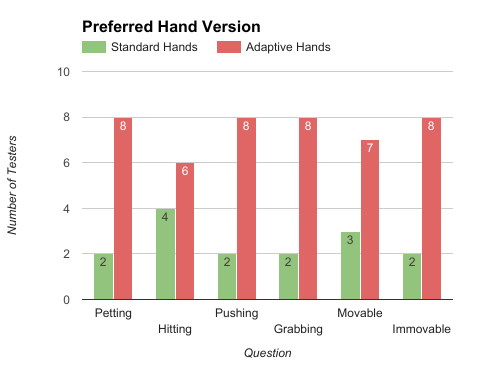
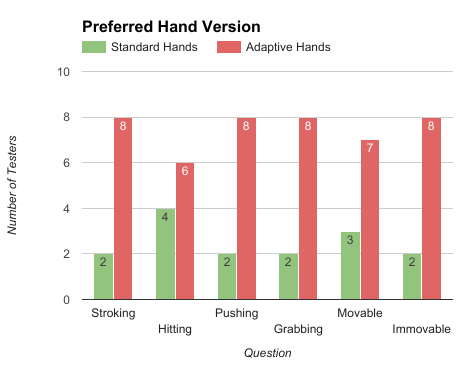
Results section (missing discussion)

diff --git a/results.tex b/results.tex
@@ -1,37 +1,51 @@
 \section{Results}
 \label{sec:results}
 
-Report results. Graphs and tables
+The information gathered in the user tests through the questionnaire and the interviews is presented in this section. The full questionnaire and a link to the raw data can be found in Annex \ref{REF HERE} The questionnaire answers are divided in two graphs: Figure \ref{fig:abGraph} summarizes the results of the A/B test-type questions, while Figure \ref{fig:descriptionGraph} contains the results of the questions where the testers where asked to select descriptions from a list to describe each hand version (they were also given the option to write their own description).
 
-\begin{itemize}
-\item Report ab preferences
-\item Report descriptions
-\item Report "other" answers in decriptions
-\item Report interviews
-\end{itemize}
+\todo[inline]{Reference to questionnaire + interview + raw data link Annex}
+
+Figure \ref{fig:interviewResults} presents the the result of performing a qualitative data analysis of the interview notes. The notes were coded and categorized following an inductive process, meaning that they were created based on the themes of the interview notes \parencite{Burnard2008}, and the number of occurrences of the labels in the notes was counted as a measure of the relevance of each label.
+
+We conducted the test procedure with 10 graduate-level university students (7 men and 3 women). It should be noted that all of the test subjects part of the games program at IT University of Copenhagen, so these results might not be fully representative of the general VR game player/user population.
 
 \begin{figure}[h]
 \centering
-\includegraphics[width=\textwidth]{abGraph.png}
-\caption{}
+\includegraphics[width=0.8\textwidth]{abGraph.png}
+\caption{Graph showing the number of testers that preferred each version of the hands in each of the aspects described by the A/B test-type questions: "With which version did you prefer petting/stroking the creatures?" (Stroking), "With which version did you prefer hitting things?" (Hitting), "With which version did you prefer pushing things?" (Pushing), "With which version did you prefer grabbing things?", (Grabbing), "Which version did you prefer in terms of how they interacted with objects that you could move?" (Movable), "Which version did you prefer in terms of how they interacted with objects that you could NOT move?" (Immovable).}
 \label{fig:abGraph}
 \end{figure}
 
-\begin{figure}[h]
+The labels in Figure \ref{fig:interviewResults} have the following meanings. In the \textit{Fingers} category, \textit{Stroking Good} means that the tester expressed that the finger adjustment improved the stroking experience: \textit{Hover Good} means that they liked the finger adjustment or hover around movable objects in a general sense. \textit{Impossible Grip} means that they expressed a dislike for the cases when the hands grabbed objects in a way that would be impossible in real life because it would not be possible to get a grip e.g. on a completely flat surface. \textit{Loose Grip} is similar to the previous one, and refers to disliking the cases when they grabbed an object and the hand pose didn't make contact with the object. \textit{Hidden Grab} refers to users expressing a dislike for the Standard hands disappearing when an object is grabbed. \textit{Flat Slap} refers to user's pointing out that because of the finger adjustment or hover around movable objects, hitting the objects with a flat hand wasn't possible. \textit{Unnoticed} refers to the cases when the users didn't notice the finger adjustment in the Adaptive hand. \textit{Inconsistent} means that the tester mentioned the fact that the fingers didn't adjust around immovable objects and were inconsistent in that sense.
+
+
+In the \textit{Rumble} category, the label \textit{Unpleasant} means that testers expressed that the haptic feedback or rumble given by the controllers was unpleasant to them. \textit{Satisfying} means that the users mentioned that the rumble was satisfying at least in some of the cases when they felt it. \textit{Informative} means that the testers found the rumble informed them of about the virtual environment, virtual events or the environment constraints or "rules". \textit{Innacurate} means that the testers described the rumble as "innacurate", "imprecise" or "unpolished". \textit{Intimate} means that the user considered that the rumble made the touch interaction feel more intimate. \textit{Confusing} means that the user expressed feeling confused about the why the rumble was being produced.
+
+\begin{figure}[H]
 \centering
-\includegraphics[width=\textwidth]{descriptionGraph.png}
-\caption{}
+\includegraphics[width=\textwidth]{descriptionGraph2.png}
+\caption{Graph of the number of testers that chose each of the words in a list to describe the two versions of the hand that were shown. A few of the testers added descriptions of their own, which are quoted under the graph.}
 \label{fig:descriptionGraph}
 \end{figure}
 
-\begin{figure}[h]
+In the \textit{Physics} category, \textit{Natural Grab} means that users liked and found it easier with the Adaptive hands to lift objects and manipulate purely using the physics system (e.g. lifting an object by placing their hands on opposite side of the object and moving their hands towards each other) instead of making use of the "artificial" trigger grab mechanic. \textit{Penetration} means that the testers expressed liking the fact that their hands could not move into immovable objects. \textit{Weight} means that the users mentioned that objects seemed to have weight when interacting with them with the Adaptive hands. \textit{Hard Lifting} refers to users expressing that the Natural Grab was better, but not easy enough with the Adaptive hands. \textit{Unnecessary} means that the user expressed not feeling inclined to break the physics rules of the environment, because there were contextual signifiers \parencite{Norman2010} that made each virtual object's affordances clear.
+
+In the \textit{Communication} category, \textit{Wireframe Late} means that the users found that the wireframe version of the Adaptive hand shown when the hand was separated from the controller appeared too late (for example because the controller is inside of a virtual object). \textit{Wireframe Good} means that they found that the wireframe visualization clarified that the system was working as intended and that there was no "bug" when the virtual hands separated from the controller. \textit{No Grab Feedback} means that a user expressed missing some kind of feedback when in the moment when the grab action is completed and the grabbed object is attached to the grabbing hand. \textit{Sound Feedback} means that the user expressed liking the sound effects produced by certain interactions. \textit{Feedback Good} refers to a general positive appreciation of the feedback with the Adaptive hands.
+
+\begin{figure}[H]
 \centering
 \includegraphics[width=\textwidth]{interviewResults.png}
-\caption{}
+\caption{Each table shows a category and its labels with the number of mentions found in the interview notes.}
 \label{fig:interviewResults}
 \end{figure}
 
-\subsection{Analysis}
-\label{subsec:analysis}
+Under \textit{Stability}, \textit{Shaking} means that the users noticed and expressed dislike for the cases when the Adaptive hand shook or moved in a "jumpy" fashion when interacting with objects. \textit{Discontinuity} refers to users noticing small discontinuities in the finger movement in some situations.
+
+In the \textit{Hand Adjustment} category, \textit{Bothered} means that the users expressly disliked when the Adaptive hands separated from the controllers in terms of position or rotation (not including finger adjustments). \textit{Not Bothered} means that the users expressly manifested not being bothered or in some cases not noticing when the hands separated from the controller in the previous sense.
+
+Finally, under \textit{General}, \textit{Body Illusion} refers to users expressing that the sometimes found themselves behaving as if they had parts their body that the virtual body didn't have. \textit{No Preference} means that the users expressly recognized that there was "nothing wrong" with the Standard hand or that they had no strong feelings of preference towards either version. \textit{Adaptive Real} refers to users that mentioned that the Adaptive hands felt "more real" to them.
+
+\subsection{Discussion}
+\label{subsec:discussion}
 
 Analyze with theory?
